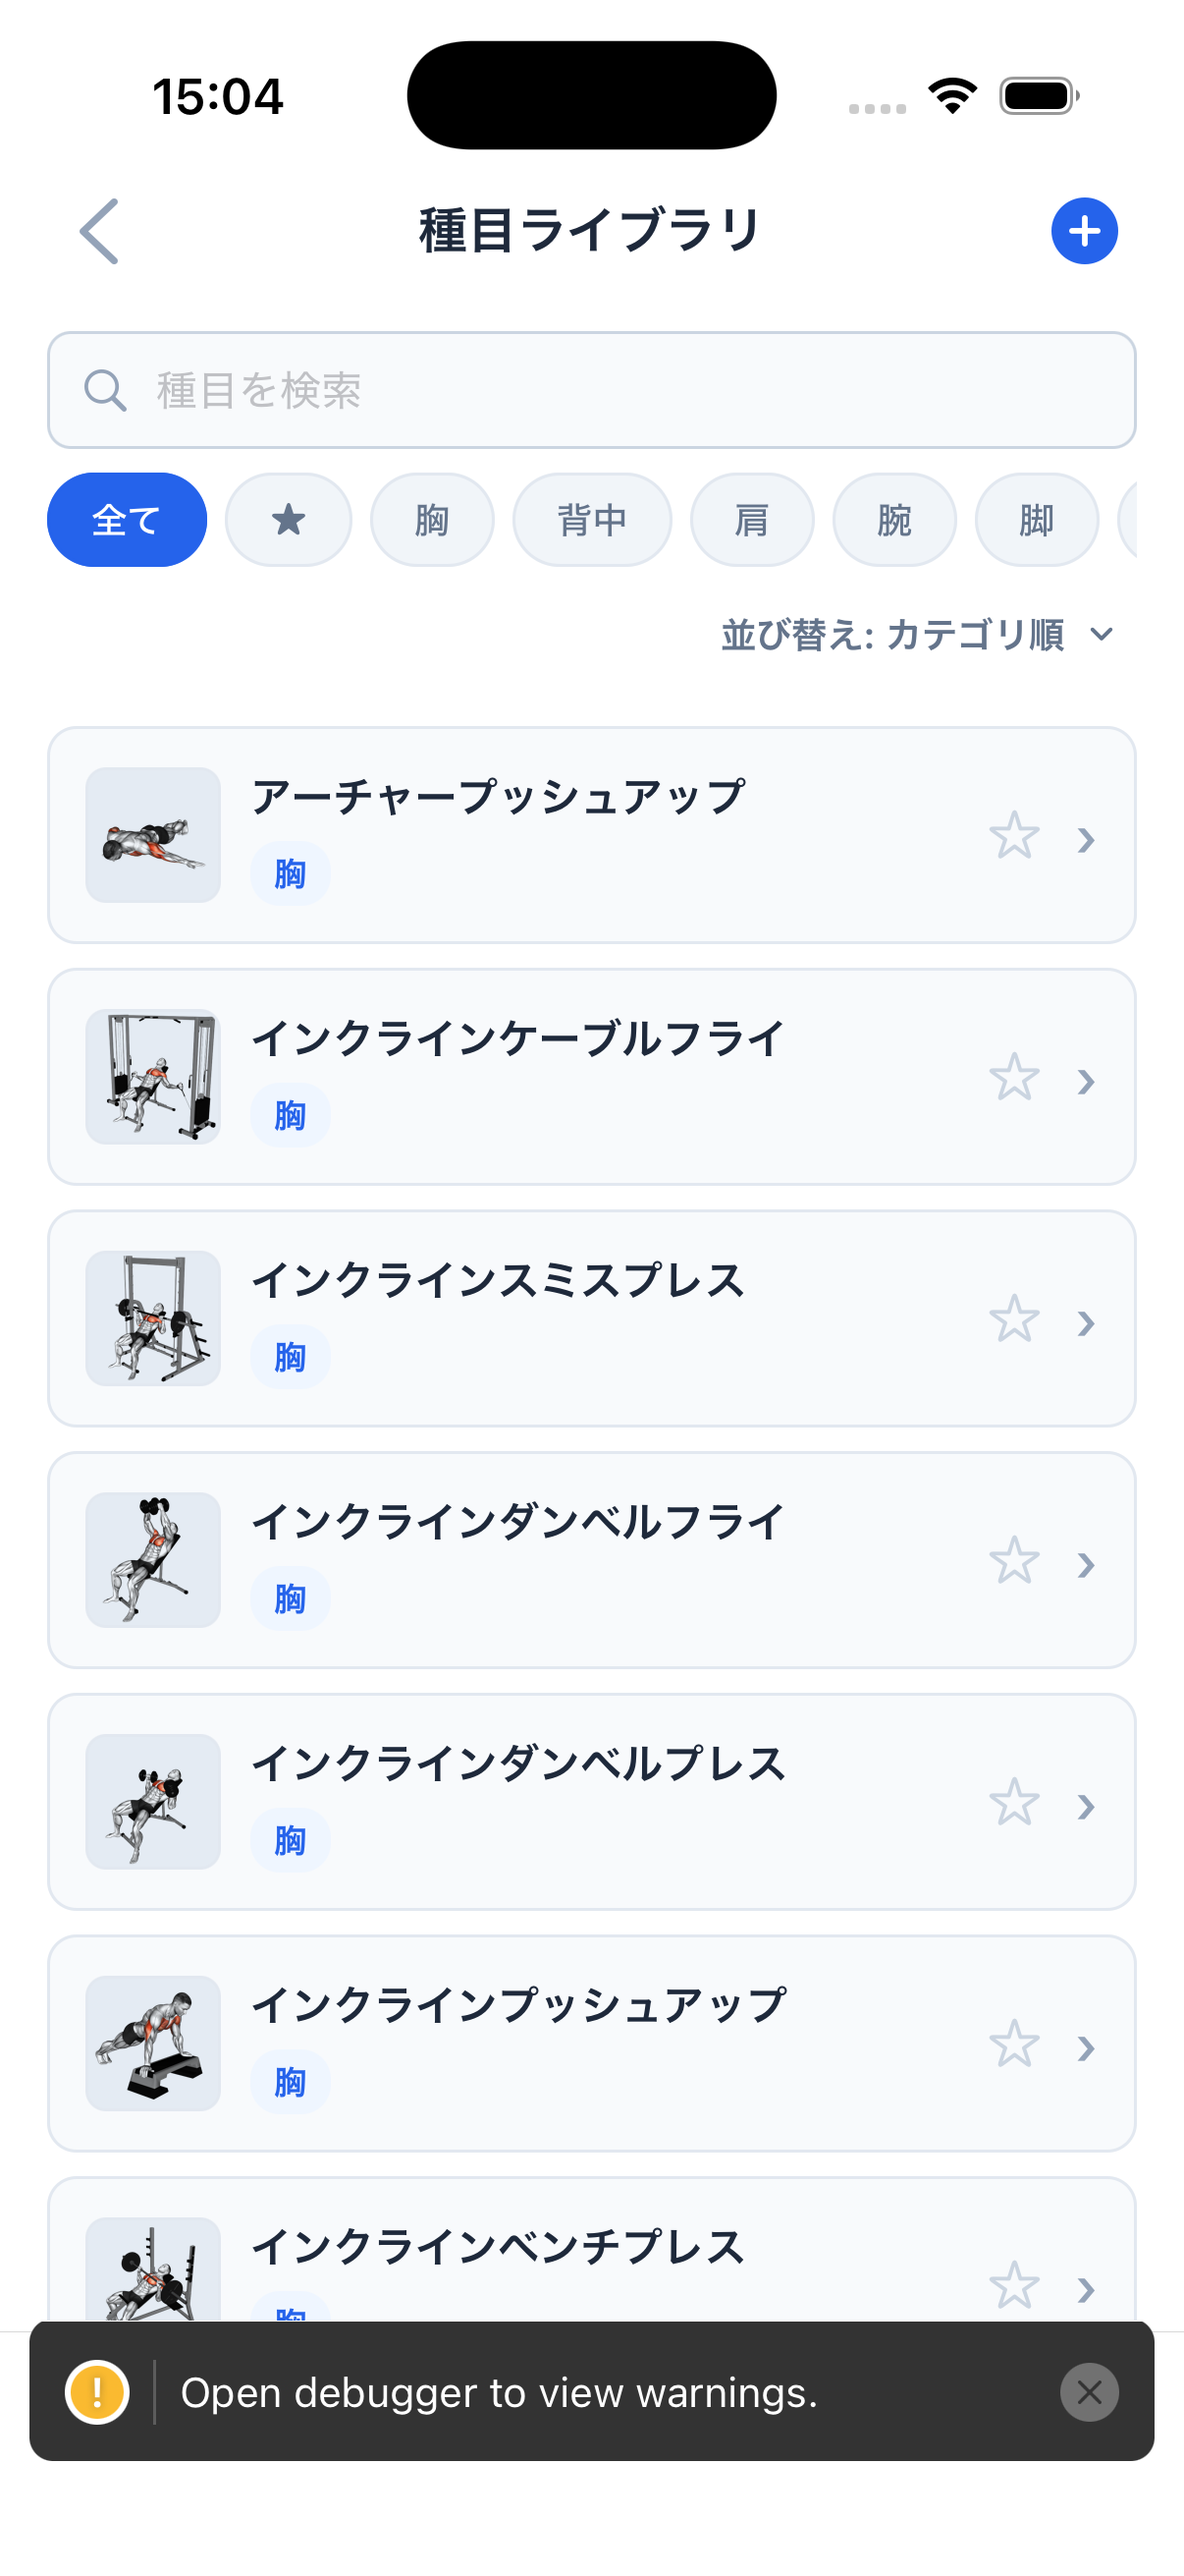
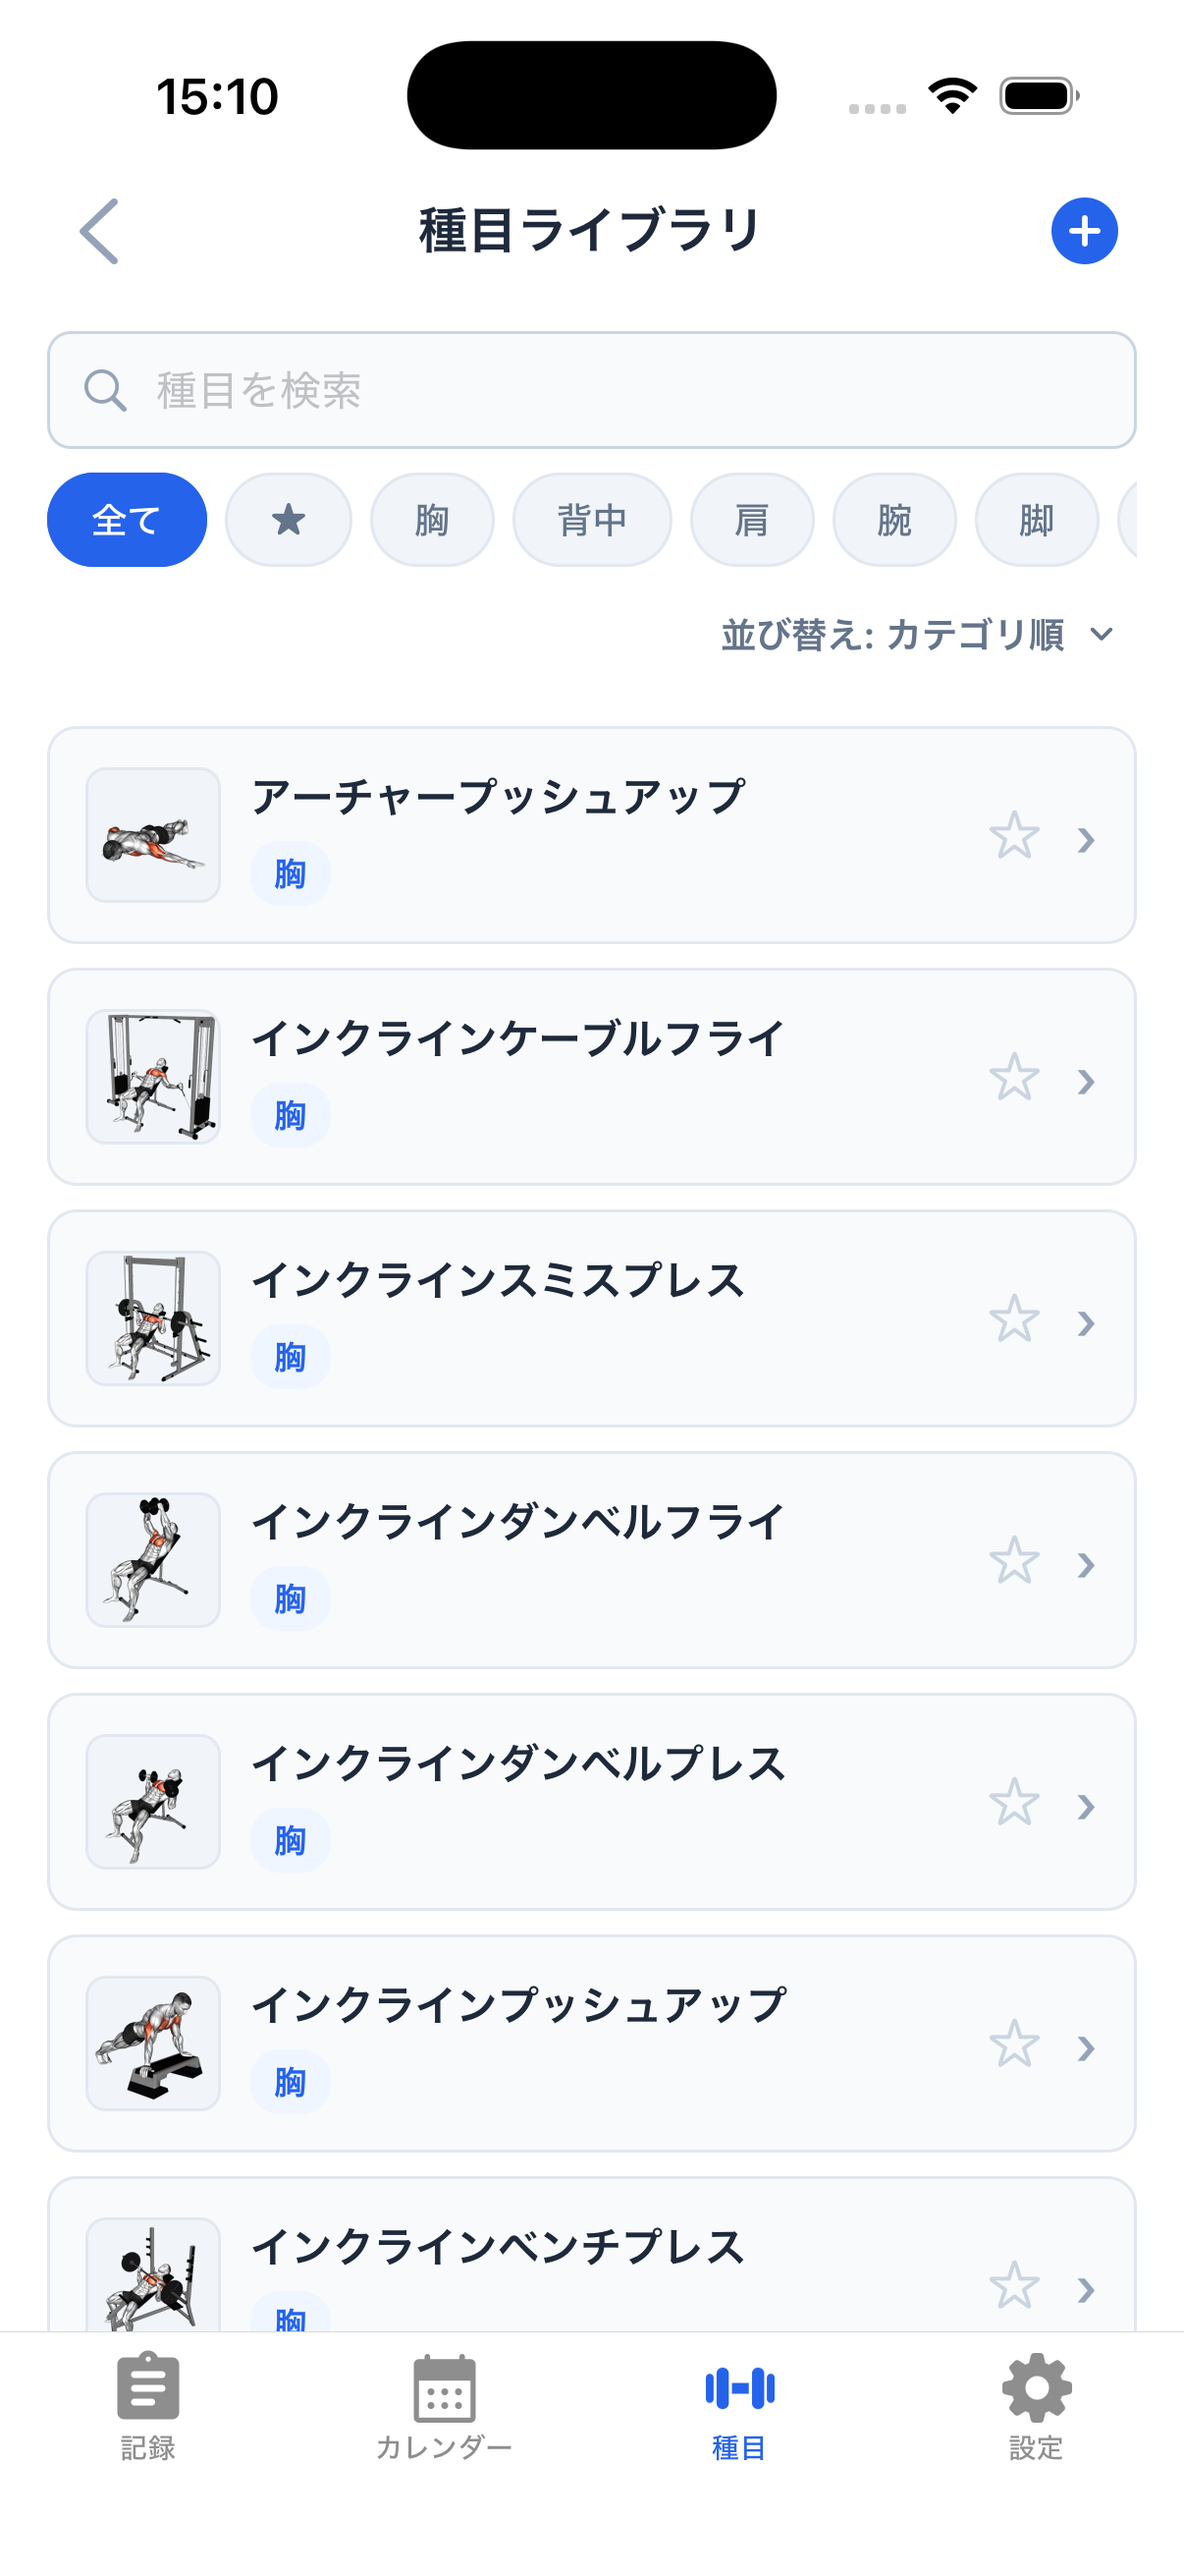
サムネイルの乗算オーバーレイをやめて白背景のまま残す
一覧のサムネイルは元の白背景のほうが良いという判断。
ExerciseThumbnailへの共通化はそのまま残す。

Changed region(s): [[0.0, 0.8959, 0.9818, 0.9577], [0.1227, 0.0309, 0.2454, 0.0618]]

diff --git a/components/exercises/exercise-thumbnail.tsx b/components/exercises/exercise-thumbnail.tsx
@@ -14,17 +14,15 @@ type Props = {
 /**
  * 種目のサムネイル。一覧・ピッカー・カード類で共通。
  *
- * 素材(GymVisual)は背景が白く焼き込まれているため、`backgroundColor` を指定しても
- * 画像がその上を白で塗りつぶしてしまう。そこで乗算ブレンドのオーバーレイを重ねて
- * 背景だけを surfaceSubtle にしている（白(255)への乗算結果はオーバーレイ色そのもの、
- * 黒(0)は黒のまま。種目詳細のメディア枠 exercise-detail-screen.tsx と同じ手法）。
- * isolationでこのViewを合成グループにして、背後のカードまで巻き込まないようにしている。
+ * frameのbackgroundColorは素材が読み込まれるまでの下地。素材(GymVisual)は背景が白く
+ * 焼き込まれているため、表示後は画像の白がこの色を覆う。種目詳細のメディア枠
+ * (exercise-detail-screen.tsx)では乗算ブレンドで白背景を枠と同色に置き換えているが、
+ * 一覧のサムネイルは白のままのほうが良いという判断でここには入れていない。
  */
 export function ExerciseThumbnail({ source, size, bordered = true }: Props) {
   return (
     <View style={[styles.frame, { width: size, height: size }, bordered && styles.bordered]}>
       <Image source={source} style={styles.image} contentFit="cover" />
-      <View style={styles.tint} pointerEvents="none" />
     </View>
   );
 }
@@ -33,18 +31,12 @@ const styles = StyleSheet.create({
   frame: {
     borderRadius: 7,
     backgroundColor: Colors.surfaceSubtle,
-    // 角丸からオーバーレイがはみ出さないようにする
+    // 角丸から画像がはみ出さないようにする
     overflow: 'hidden',
-    isolation: 'isolate',
   },
   bordered: {
     borderWidth: 1,
     borderColor: Colors.border,
   },
   image: { flex: 1 },
-  tint: {
-    ...StyleSheet.absoluteFillObject,
-    backgroundColor: Colors.surfaceSubtle,
-    mixBlendMode: 'multiply',
-  },
 });
